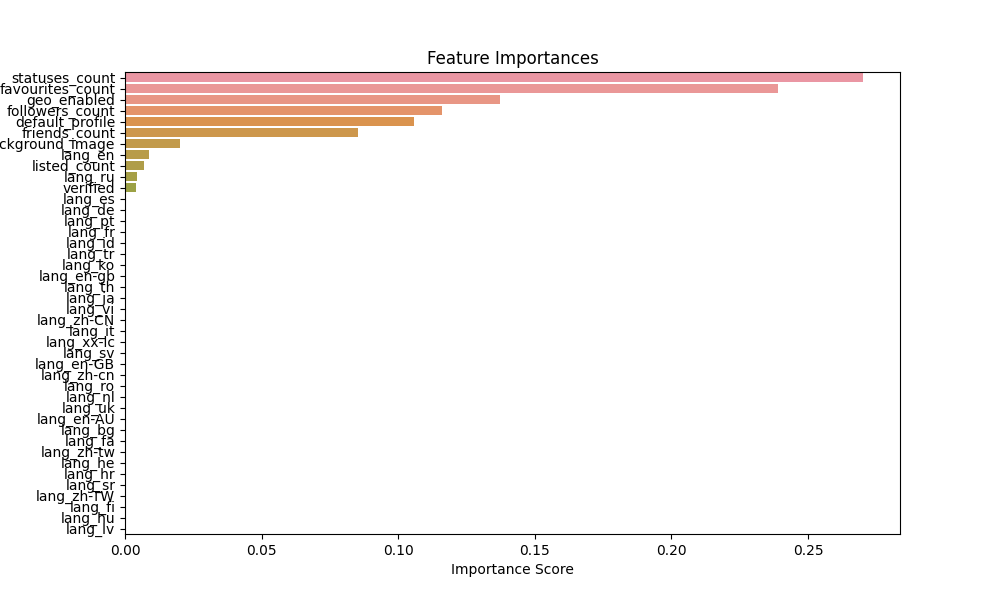
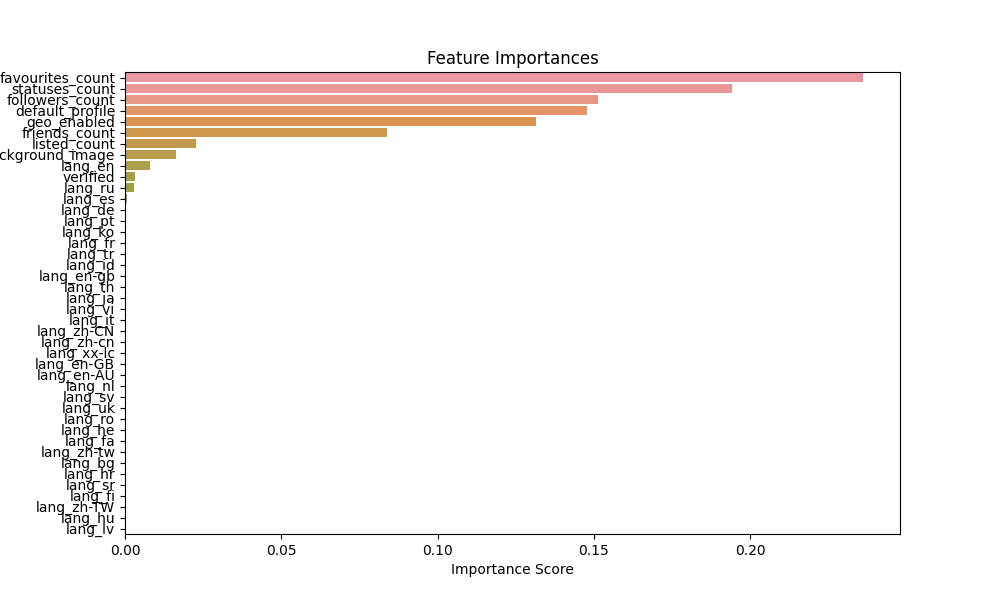
fix eda paths

diff --git a/src/main.py b/src/main.py
@@ -15,7 +15,7 @@ def main():
     X_train, X_test, y_train, y_test = train_test_split(
         X, y, test_size=0.2, random_state=42
     )
-    rf_model = RandomForestClassifier(n_estimators=100, random_state=42)
+    rf_model = RandomForestClassifier(n_estimators=100, random_state=23)
 
     rf_model.fit(X_train, y_train)
     y_pred = rf_model.predict(X_test)
@@ -43,7 +43,7 @@ def main():
     plt.title("Feature Importances")
     plt.xlabel("Importance Score")
     plt.ylabel("Features")
-    plt.savefig("xd.png")
+    plt.savefig("feature_importance_lookup.png")
 
 
 if __name__ == "__main__":

diff --git a/EDA/convert_to_csv.py b/EDA/convert_to_csv.py
@@ -1,4 +1,4 @@
-from read_data import read_data_json, read_labels
+from src.preprocessing.read_data import read_data_json, read_labels
 import pandas as pd
 
 
